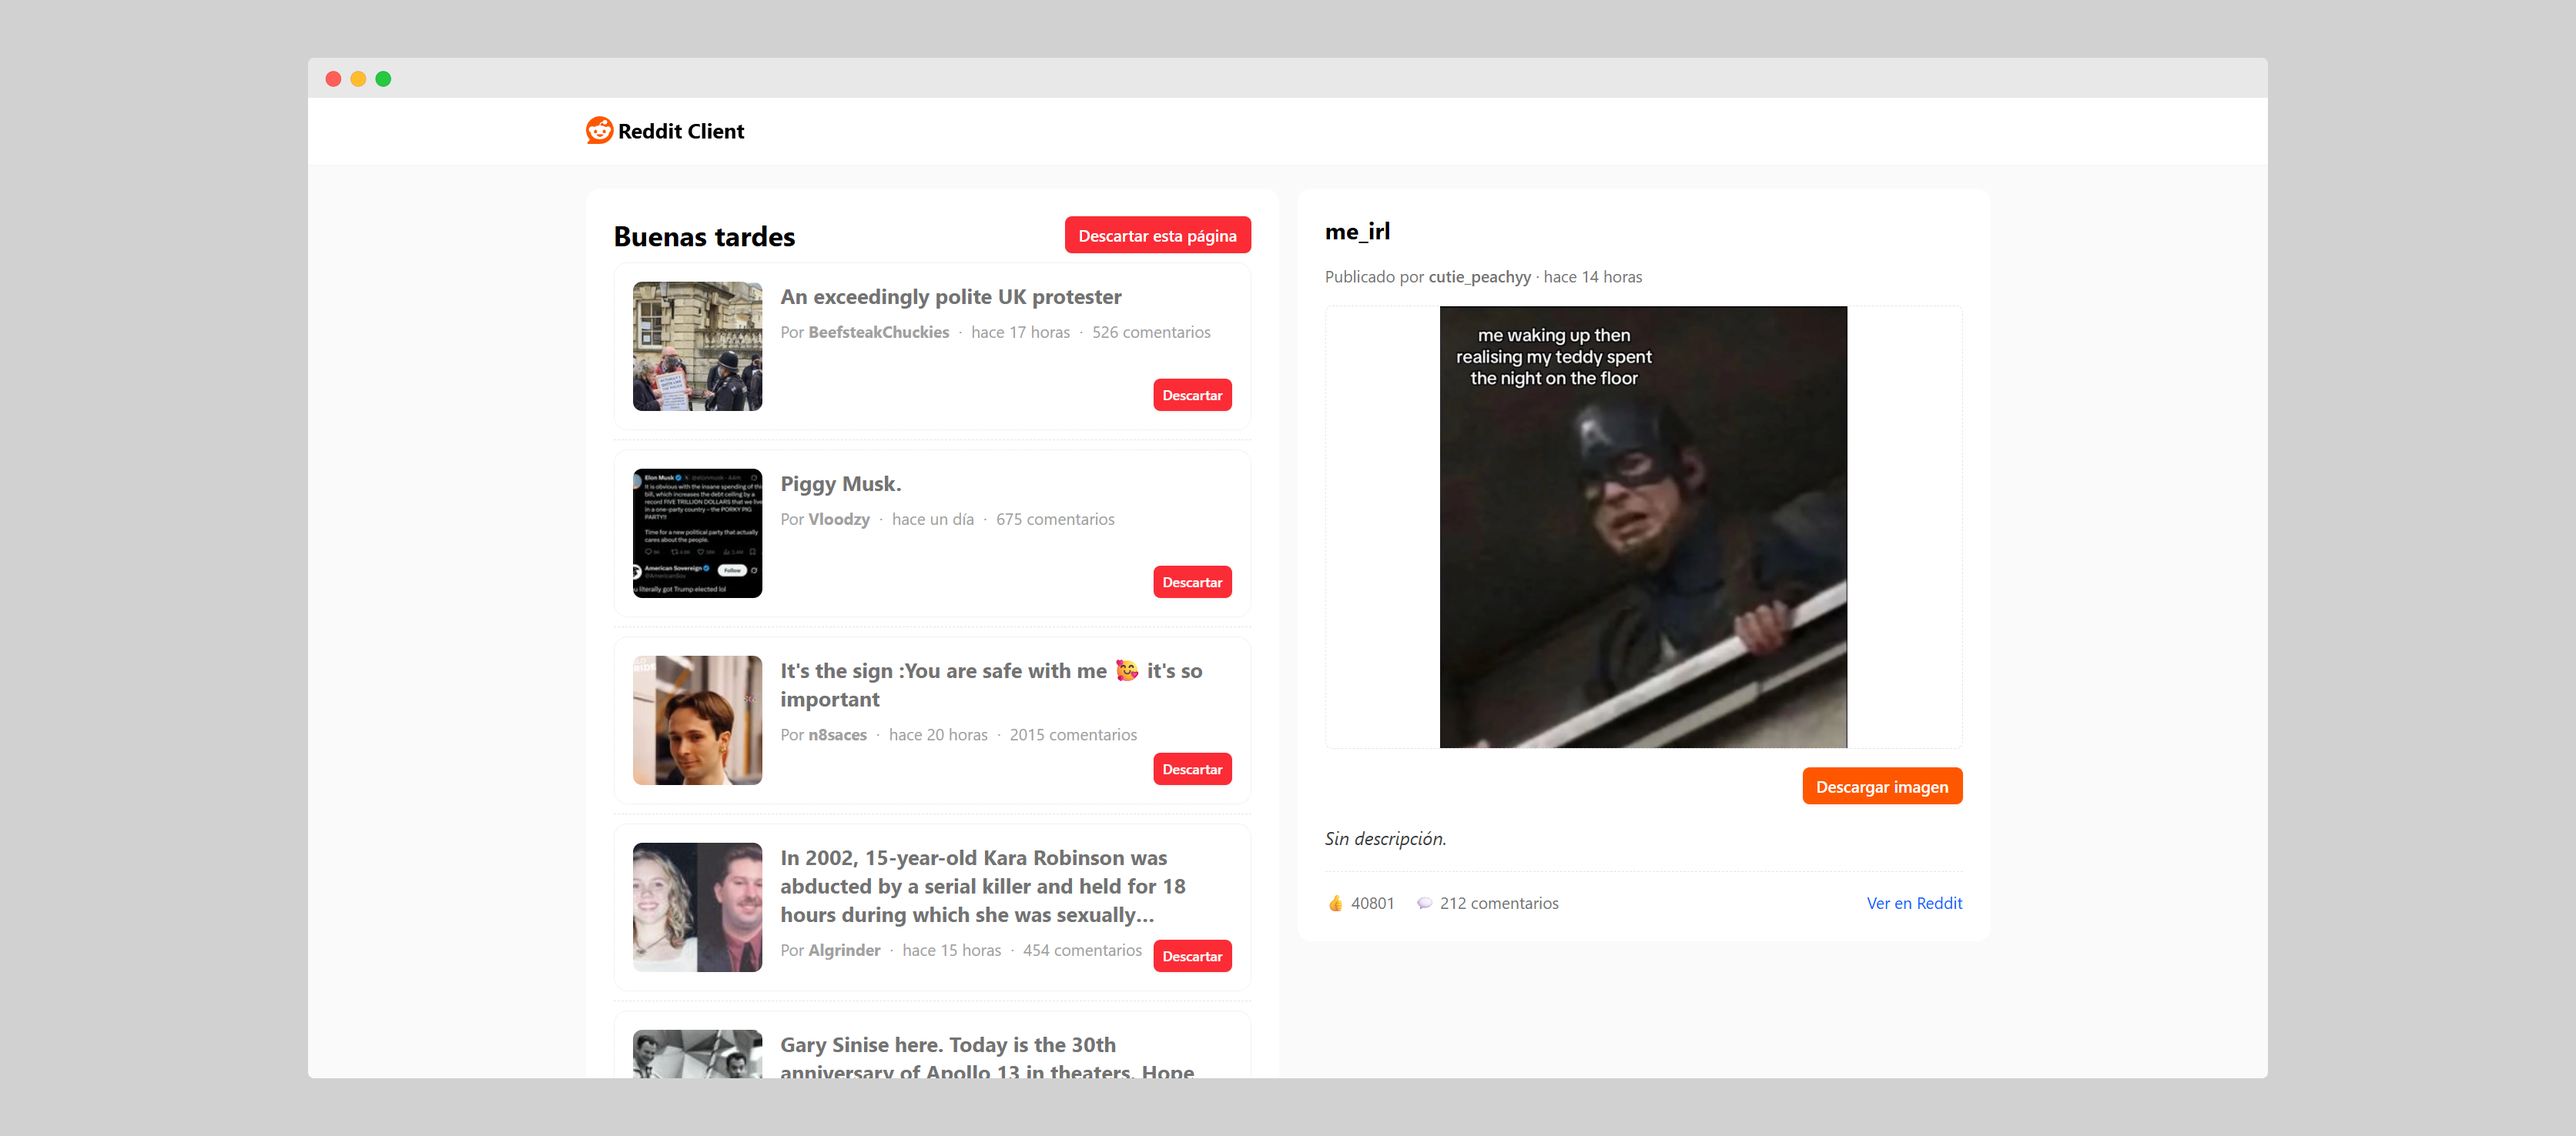
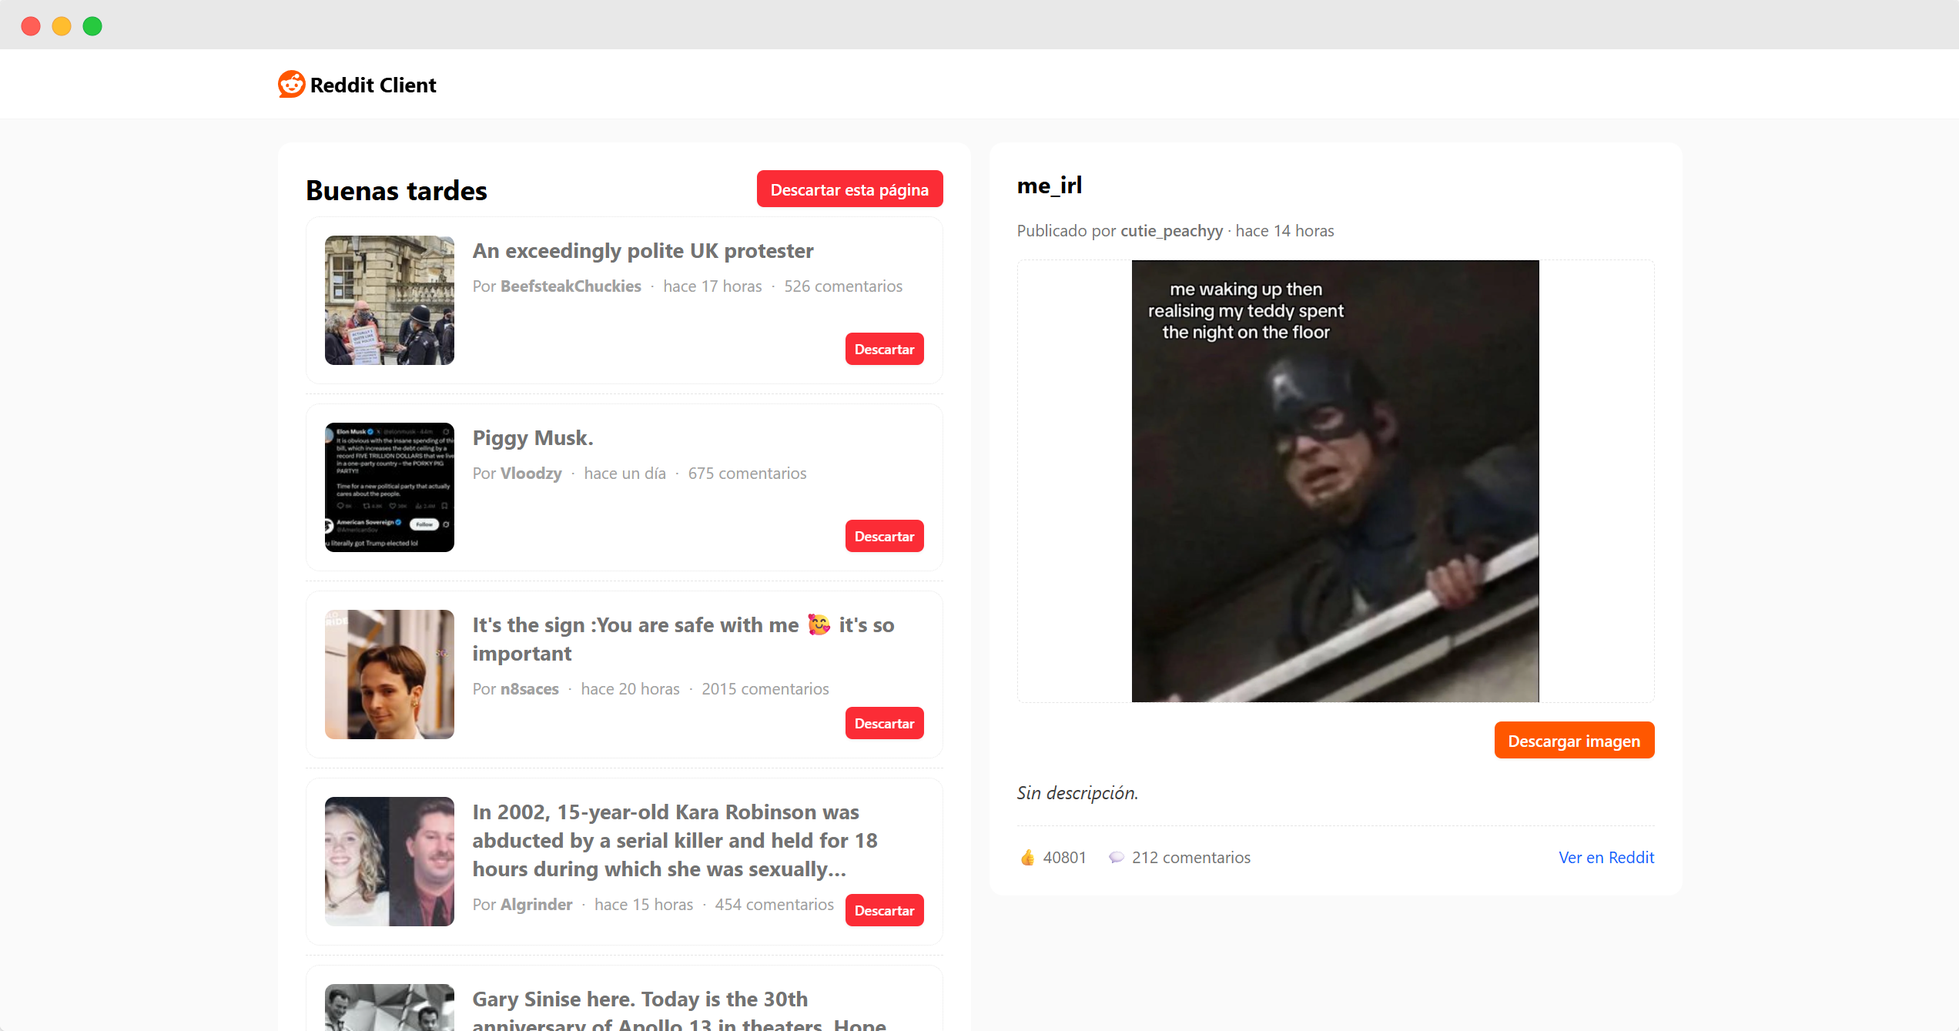
🖼 docs: update project preview screenshot

diff --git a/README.md b/README.md
@@ -2,7 +2,7 @@
 
 > An application built with Vue 3 to browse top Reddit posts. It supports infinite scrolling, detailed post views, marking posts as read or dismissed, and provides a smooth single-page application (SPA) experience.
 
-![screenshot](https://raw.githubusercontent.com/Shair17/reto-frontend-encora/refs/heads/dev/public/preview.png)
+![screenshot](https://github.com/Shair17/reto-frontend-encora/blob/dev/public/preview.png?raw=true)
 
 ---
 
